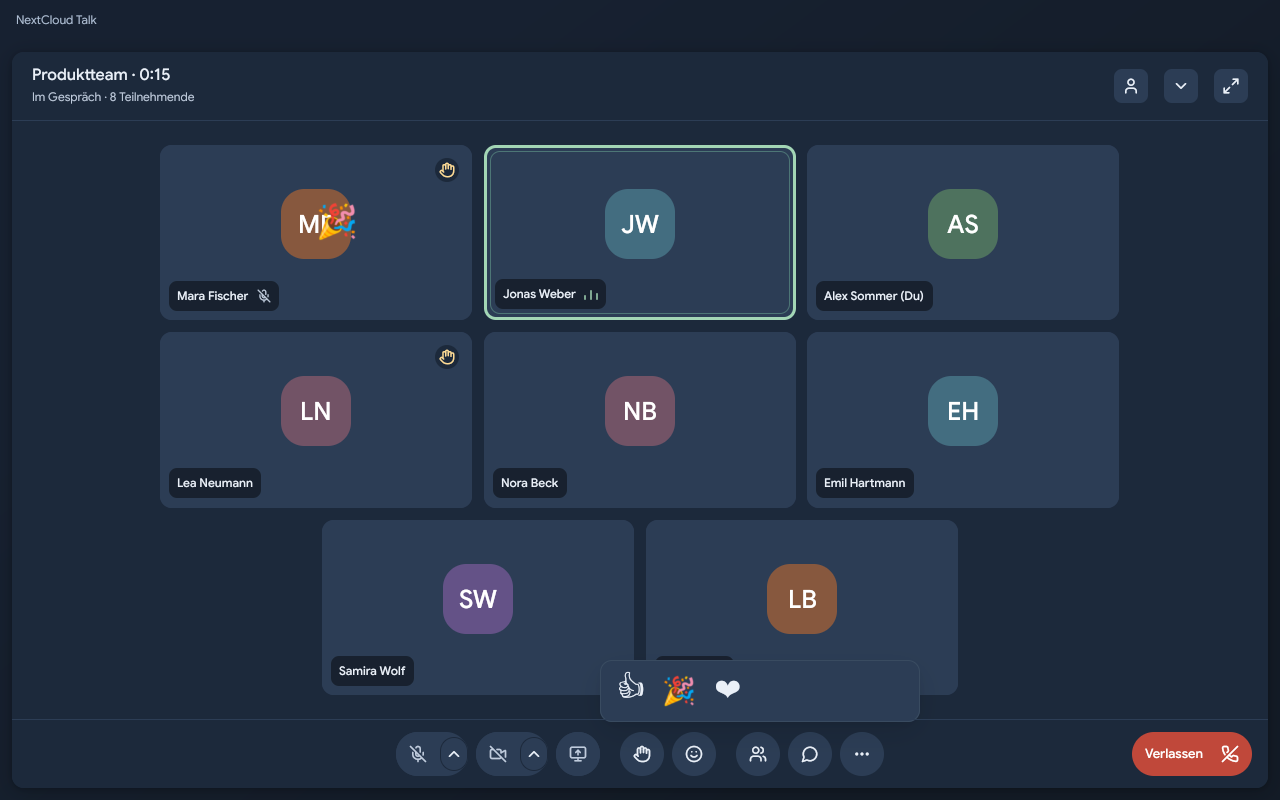
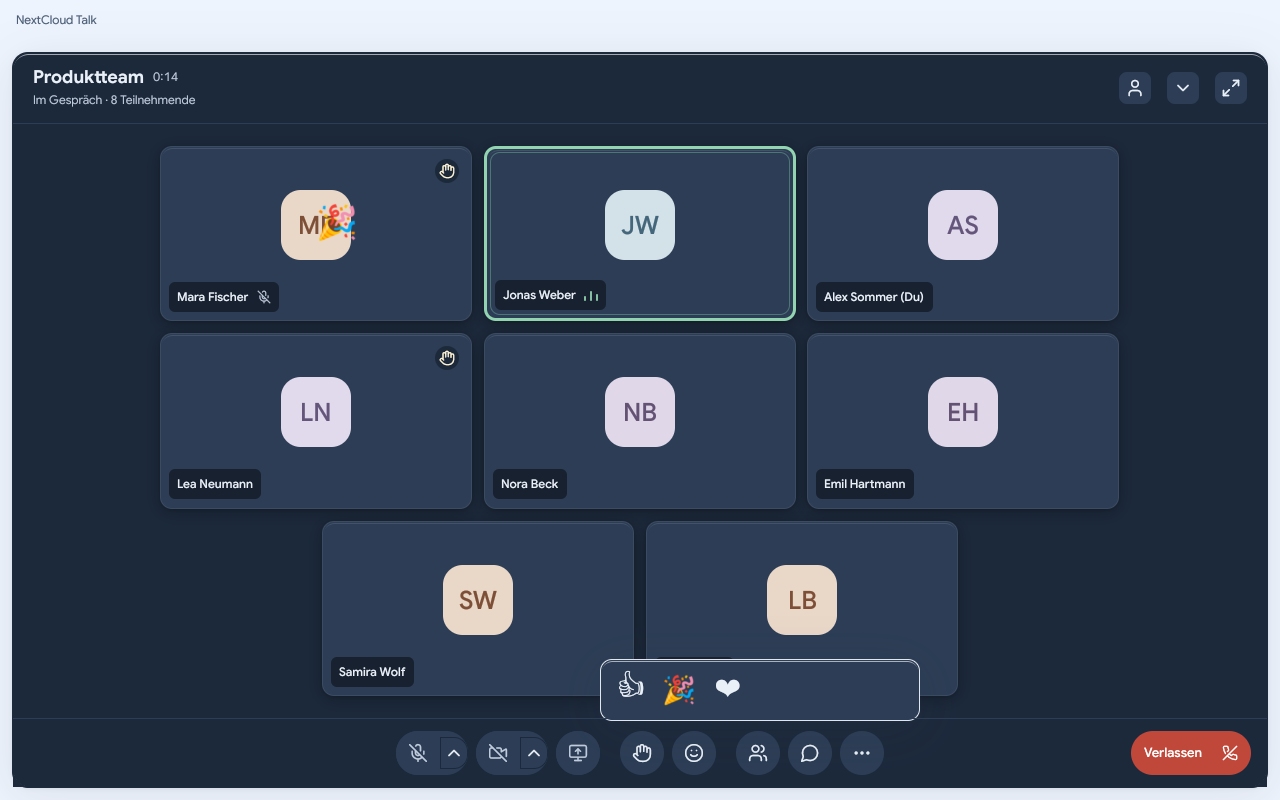
Refresh the README screenshots from the current UI
Recapture the four README images from the compiled Linux app: the sidebar now has
the filter icon, the pill-shaped leave button and the current dialog grays.
Document the exact capture scenarios.

diff --git a/docs/development.md b/docs/development.md
@@ -125,14 +125,17 @@ task dev -- --ui-scenario chat --ui-preserve-preferences
 
 This opens a native GPUI window without server login or capture. Launch without `--ui-scenario` for ordinary browser login and restored accounts. Previews, focus/keyboard checks and appearance fixtures do not establish integrated behavior. See [native UI boundaries](design/README.md). Keep `--licenses` output and installed notices with packages.
 
-To refresh the README image from the compiled Linux app:
+To refresh the README images from the compiled Linux app:
 
 ```sh
 python3 tools/ui/capture.py --binary target/debug/talk-desktop \
-  --output /tmp/talk-readme --scenarios chat --width 1280 --height 720
+  --output /tmp/talk-readme --width 1280 --height 800 --locale de \
+  --scenarios chat,chat:dark,sidebar-activity:light:sage,call-reactions
 ```
 
-Inspect `chat-light-blue.png` before copying it to `docs/assets/chat.png`.
+Inspect the captures, then copy `chat-light-blue.png` to `docs/assets/chat.png`,
+`chat-dark-blue.png` to `chat-dark.png`, `sidebar-activity-light-sage.png` to
+`activity.png` and `call-reactions-light-blue.png` to `call.png`.
 Keep the README caption accurate about the platform and synthetic data.
 
 Use `login-server-denied`, `chat-server-denied`, `chat-server-unavailable` and `accounts-server-denied` to inspect connection-error copy with fictional data.
